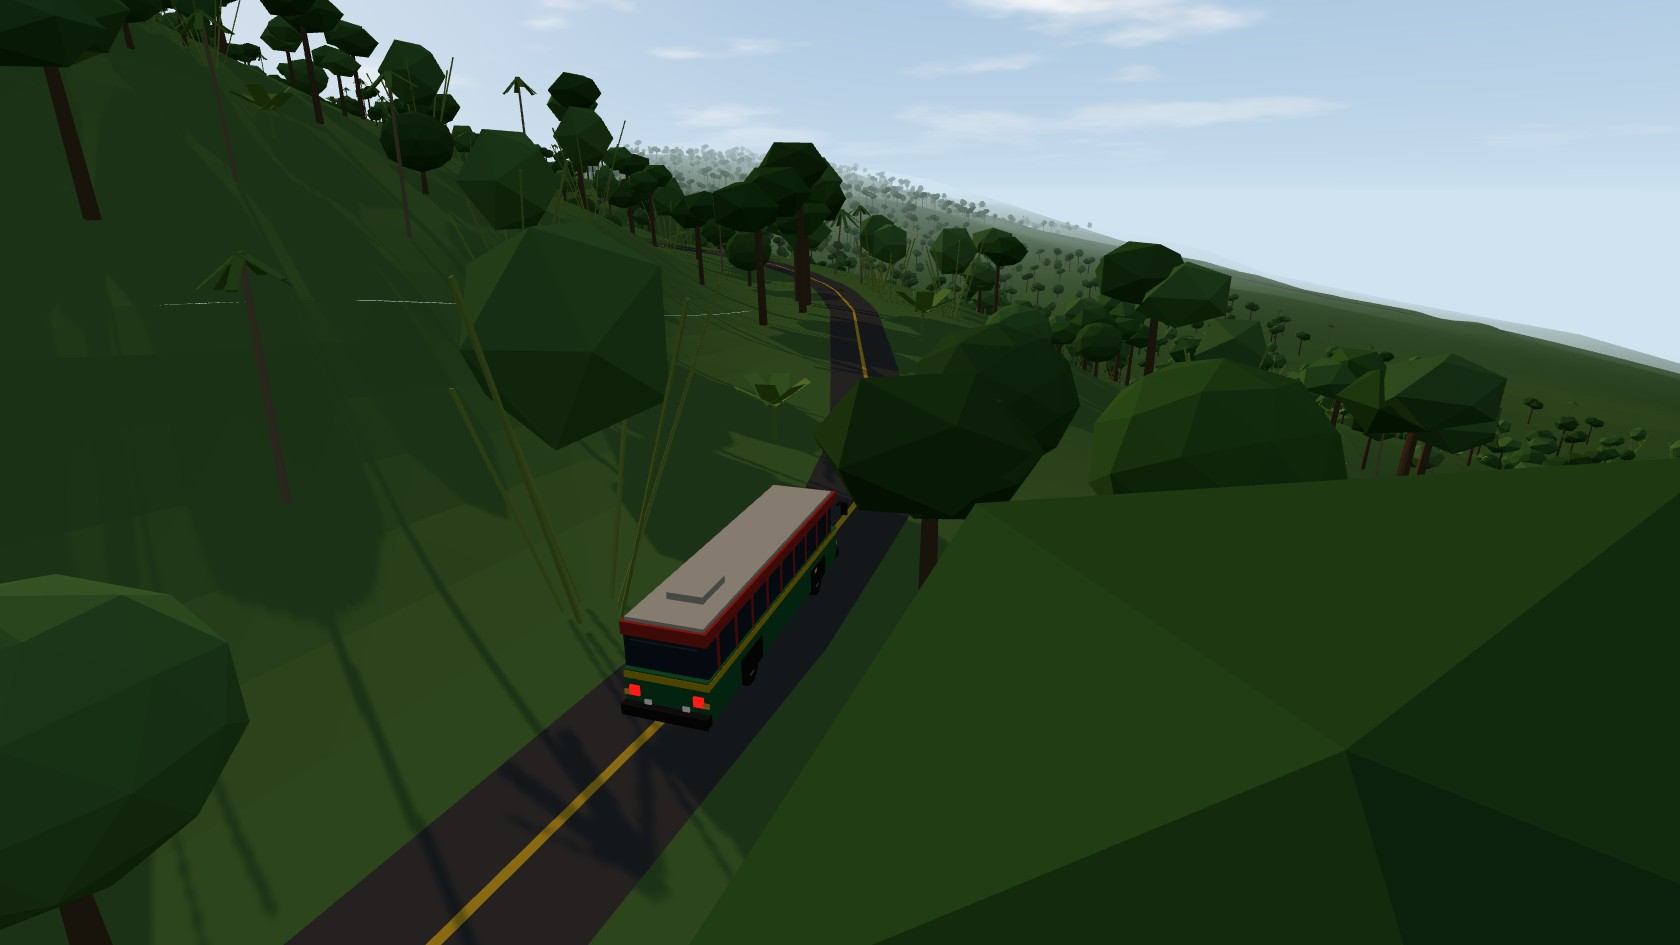
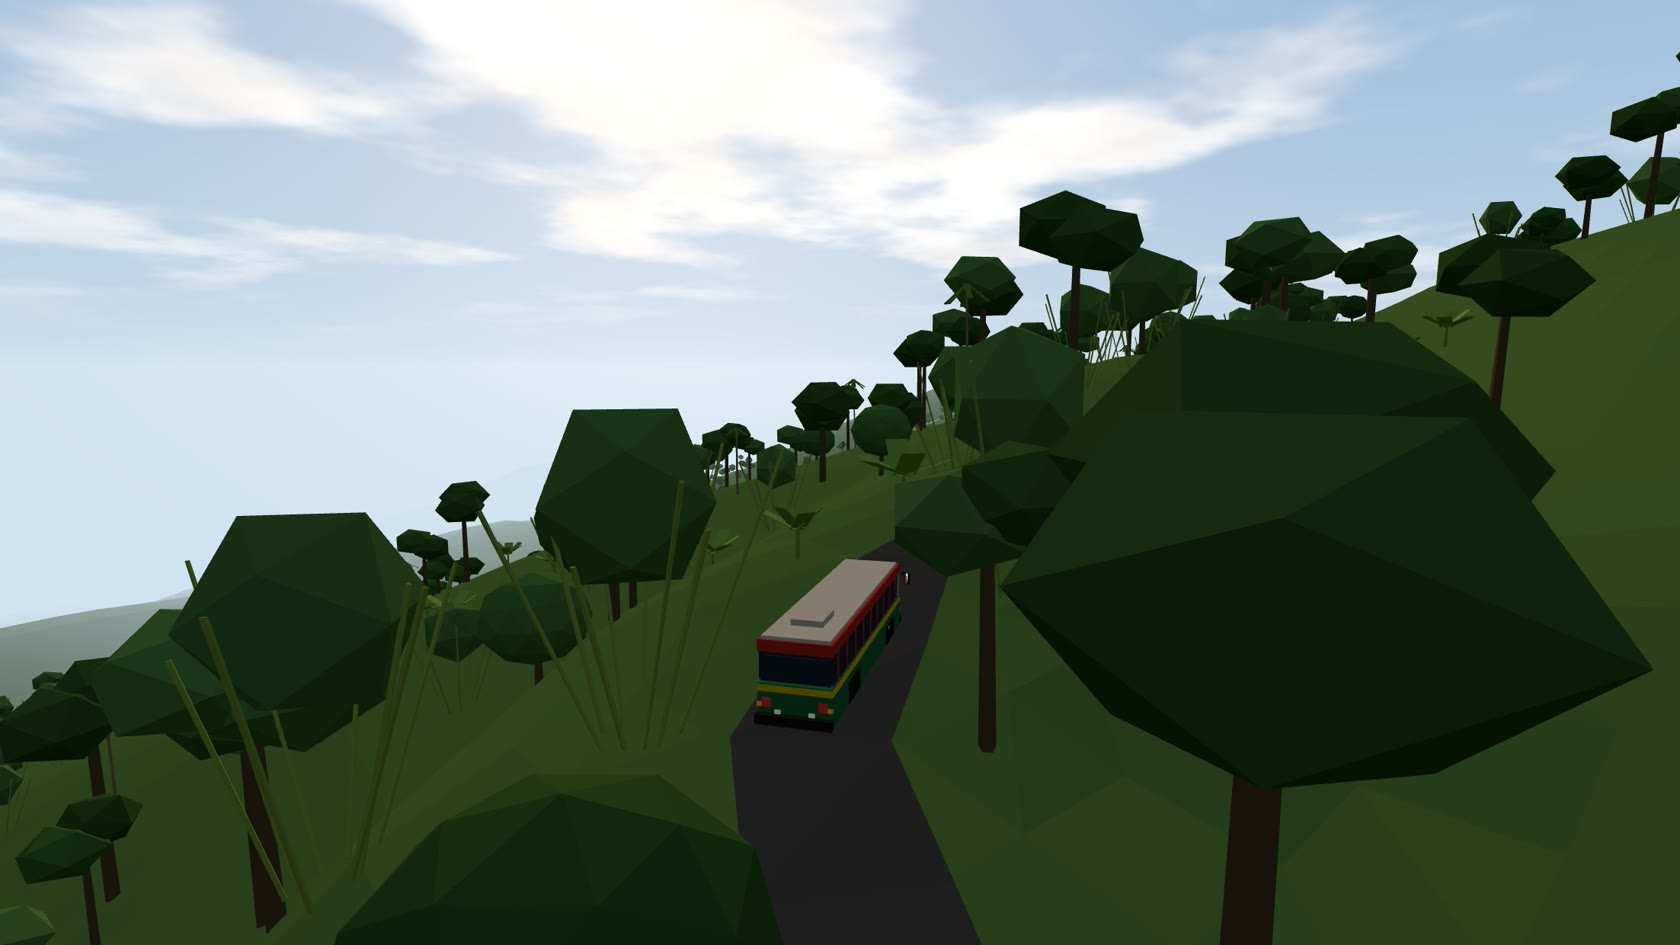
fix: keep the Bandarban bus on the Thanchi Road and move Chimbuk to its summit (v1.2.2)
The route graph now costs unnamed unclassified ways like residential ones,
so the Route no longer cuts through village lanes at km 2.6-3.7 (22.82 km).
The Chimbuk landmark stands on the summit complex seen in imagery; the Stop
stays on the road. The hill road has no lane markings (new markings option).

diff --git a/scripts/bake/build.ts b/scripts/bake/build.ts
@@ -196,7 +196,7 @@ function dashes(pts: [number, number][], dash: number, space: number): [number, 
 
 export function buildRoads(
   geo: ChunkGeometry, idx: Indexed, h: HeightSampler, onRoad: (x: number, z: number) => boolean, junctions: PointGrid,
-  footpaths = true, flyovers: Map<number, (s: number) => number> = new Map(), bridgesAtGrade = false,
+  footpaths = true, flyovers: Map<number, (s: number) => number> = new Map(), bridgesAtGrade = false, markings = true,
 ): { pillars: number; skipped: number; crossings: number; footbridges: number } {
   let pillars = 0, skipped = 0, crossings = 0, footbridges = 0;
   const lift = (rank: number) => 0.12 + rank * 0.01; // major roads draw over minor ones at junctions
@@ -311,12 +311,12 @@ export function buildRoads(
         for (const seg of dashed ? dashes(line, 3, 6) : [line]) geo.ribbon(at(seg, y + 0.02), wdt, c, 'marking', [0]);
       };
       // lane dividers
-      for (let i = 1; i < lanes; i++) {
+      for (let i = 1; markings && i < lanes; i++) {
         const off = -width / 2 + (i * width) / lanes;
         if (!oneway && i === lanes / 2) mark(off, C.yellow, false, 0.3); // centre line on two-way roads
         else mark(off, C.white, true);
       }
-      if (rank >= 4) { mark(-width / 2 + 0.3, C.white, false); mark(width / 2 - 0.3, C.white, false); }
+      if (markings && rank >= 4) { mark(-width / 2 + 0.3, C.white, false); mark(width / 2 - 0.3, C.white, false); }
       // Raised footpaths both sides; on dual carriageways the inner one reads as the median kerb.
       const fw = rank >= 4 ? 2.5 : 1.8;
       if (footpaths) for (const side of [-1, 1]) geo.ribbon(at(offsetLine(run, side * (width / 2 + fw / 2)), 0.3), fw, C.kerb, 'kerb', [0, 1], 0.18, C.kerbSide);

diff --git a/src/config/changelog.ts b/src/config/changelog.ts
@@ -11,6 +11,21 @@ export interface Release {
 
 export const CHANGELOG: Release[] = [
   {
+    version: '1.2.2',
+    date: '2026-10-31',
+    image: '1.2.2.jpg',
+    bn: [
+      'বান্দরবানের বাস এখন পুরো পথ থানচি সড়ক ধরেই চলে; শহরের কাছের গ্রামের শর্টকাটটা আর নেই।',
+      'চিম্বুকের চূড়ার কমপ্লেক্স এখন তার আসল জায়গায়, সড়ক থেকে একটু ভেতরে।',
+      'পাহাড়ি সড়কে আর হলুদ মাঝের দাগ নেই, আসল সড়কের মতো একটাই লেন।',
+    ],
+    en: [
+      'The Bandarban bus now keeps to the Thanchi Road all the way; the village shortcut near town is gone.',
+      'Chimbuk’s summit complex now stands where it really is, a short way off the road.',
+      'The hill road has no yellow centre line any more: one unmarked lane, like the real one.',
+    ],
+  },
+  {
     version: '1.2.1',
     date: '2026-10-28',
     image: '1.2.1.jpg',

diff --git a/src/shared/landmarks.ts b/src/shared/landmarks.ts
@@ -41,7 +41,7 @@ export const LANDMARKS: LandmarkDef[] = [
   { id: 'sadarghat-launches', name: 'Sadarghat', lat: 23.70589, lon: 90.40929, tier: 'simple', footprintM: 0, headingDeg: 0, places: D('zone') },
   { id: 'airport-terminal', name: 'Airport Terminal', lat: 23.8501, lon: 90.4071, tier: 'simple', footprintM: 200, headingDeg: 140, places: D('zone') },
   // Bandarban Route (also seen from the air)
-  { id: 'chimbuk', name: 'Chimbuk', lat: 22.0573, lon: 92.2732, tier: 'hero', footprintM: 40, headingDeg: 30, places: B('both') },
+  { id: 'chimbuk', name: 'Chimbuk', lat: 22.0571, lon: 92.2724, tier: 'hero', footprintM: 40, headingDeg: 30, places: B('both') },
   { id: 'shoilo-propat', name: 'Shoilo Propat', lat: 22.15067, lon: 92.21688, tier: 'hero', footprintM: 0, headingDeg: 109, places: B('both') },
   { id: 'milonchhari', name: 'Milonchhari', lat: 22.16861, lon: 92.22284, tier: 'simple', footprintM: 0, headingDeg: 40, places: B('both') },
   { id: 'bandarban-bus-stand', name: 'Bandarban Bus Stand', lat: 22.18368, lon: 92.2178, tier: 'simple', footprintM: 0, headingDeg: 30, places: B('both') },

diff --git a/scripts/bake/osm.ts b/scripts/bake/osm.ts
@@ -79,7 +79,10 @@ export function buildGraph(idx: Indexed): Map<number, Edge[]> {
     if (!t.highway || !DRIVABLE.has(t.highway) || baseType(t.highway) === 'motorway' || isElevated(w, idx)) continue;
     if (t.access === 'private' || t.access === 'no') continue;
     const dir = isOneway(t);
-    const penalty = t.highway === 'service' ? 3 : t.highway === 'residential' ? 1.6 : 1;
+    // Unnamed unclassified ways are usually village lanes; without a cost they shortcut real roads
+    // (Bandarban's Route left the Thanchi Road for two of them between km 2.6 and 3.7).
+    const lane = t.highway === 'unclassified' && !t.name && !t.ref;
+    const penalty = t.highway === 'service' ? 3 : t.highway === 'residential' || lane ? 1.6 : 1;
     for (let i = 1; i < w.nodes.length; i++) {
       const a = idx.nodes.get(w.nodes[i - 1]), b = idx.nodes.get(w.nodes[i]);
       if (!a || !b) continue;

diff --git a/scripts/bake/regions.ts b/scripts/bake/regions.ts
@@ -26,6 +26,8 @@ export interface RegionDef {
   gradeRoads: boolean;
   /** Raised footpaths along main roads (city Regions; hill roads have none). */
   footpaths: boolean;
+  /** Painted lane markings (default on; Bandarban's hill road is one unmarked lane). */
+  markings?: boolean;
   /** A metro Region (SPEC §20): the Route is the line's track and the Stops are its stations. */
   metro?: boolean;
   /** Read OSM from the local Geofabrik extract instead of Overpass (big city areas). */
@@ -79,6 +81,7 @@ export const BANDARBAN: RegionDef = {
   forest: true,
   gradeRoads: true,
   footpaths: false,
+  markings: false,
 };
 
 /** MRT Line 6, Uttara North → Motijheel (SPEC §20; stations are OSM's, north to south). */

diff --git a/scripts/bake/index.ts b/scripts/bake/index.ts
@@ -131,7 +131,7 @@ async function main() {
   const flyovers = region.gradeRoads ? new Map<number, (s: number) => number>() : flyoverProfiles(roads.ways.filter(wy => wy.tags?.highway).map(wy => ({
     id: wy.id, nodes: wy.nodes, tags: wy.tags!, pts: wy.nodes.map(n => roads.nodes.get(n)).filter(Boolean).map(nd => [nd!.x, nd!.z] as [number, number]),
   })));
-  const rd = buildRoads(geo, roads, h, onRoad, junctions, region.footpaths, flyovers, region.gradeRoads);
+  const rd = buildRoads(geo, roads, h, onRoad, junctions, region.footpaths, flyovers, region.gradeRoads, region.markings ?? true);
   lap('roads');
   if (metro) {
     const v = buildViaduct(geo, metro, onRoad);

diff --git a/SPEC.md b/SPEC.md
@@ -107,16 +107,16 @@ The path runs along Old Airport Road and Bijoy Sarani, then Bir Uttam Ziaur Rahm
 
 The routed km figures include short detours; staying on the arterials comes to ~13.5–14.8 km.
 
-### Bandarban Route: Bandarban Bus Stand → Chimbuk (~22.6 km as baked, outbound only)
+### Bandarban Route: Bandarban Bus Stand → Chimbuk (~22.8 km as baked, outbound only)
 
-The road is the Bandarban–Thanchi Road (`secondary`, Z1811). Stops are hand-placed because they aren't bus stops in OSM.
+The road is the Bandarban–Thanchi Road (`secondary`, Z1811) the whole way: the route graph costs unnamed `unclassified` ways like `residential`, so the Route no longer cuts through village lanes at km 2.6–3.7 (v1.2.2). Stops are hand-placed because they aren't bus stops in OSM.
 
 | # | Stop | Lat, Lon | km | Leg |
 |---|---|---|---|---|
 | 1 | Bandarban Bus Stand (Thanchi Road stands) | ~22.1837, 92.2178 | 0 | Leg 1 start |
-| 2 | Milonchhari | ~22.1686, 92.2228 | 3.2 | |
-| 3 | Shoilo Propat | ~22.1507, 92.2169 | 6.6 | Leg 1 end / Leg 2 start |
-| 4 | Chimbuk (Tourist Centre, on the main road at its ridge top; no side road) | 22.05755, 92.27342 | 22.6 | Leg 2 end (~17 km) |
+| 2 | Milonchhari | ~22.1686, 92.2228 | 2.2 | |
+| 3 | Shoilo Propat | ~22.1507, 92.2169 | 5.7 | Leg 1 end / Leg 2 start |
+| 4 | Chimbuk (Tourist Centre, on the main road at its ridge top; no side road) | 22.05755, 92.27342 | 22.8 | Leg 2 end (~17 km) |
 
 ### Flight Zones
 
@@ -416,7 +416,7 @@ Cameras: the **driver's cab is the default** (right-hand drive, as Bangladesh dr
 These were known gaps the build had to check. None of them is an open decision. Results from M12 (2026-10-28) follow each item.
 
 1. **Minimum phone:** repeat the 30 fps checks on a Helio G99 / Snapdragon 680-class phone. The user's test phone wasn't recorded ([024](docs/wayfinder/tickets/024-prototype-fog-and-rain.md), [017](docs/wayfinder/tickets/017-judge-touch-controls.md)). **Open: needs the user's phone.** Add `?fps=1` to the URL for a frame-rate readout (green at 30 fps or more). On a desktop GPU, High holds ~60 fps in Dhaka with shadows.
-2. **Chimbuk height:** **confirmed.** GLO-30 gives 556 m at the Wikidata "Tourist Centre" point (SRTM said ~558 m). That point lies ~210 m off the road and below it; the Thanchi Road tops out at 579 m beside a 592 m knoll. The Stop now stands on the road at that ridge top (22.05755, 92.27342) and the landmark on the knoll beside it (22.0573, 92.2732).
+2. **Chimbuk height:** **confirmed.** GLO-30 gives 556 m at the Wikidata "Tourist Centre" point (SRTM said ~558 m). That point lies ~210 m off the road and below it; the Thanchi Road tops out at 579 m beside a 592 m knoll. The Stop stands on the road at that ridge top (22.05755, 92.27342). The landmark stands on the summit complex seen in satellite imagery, a paved plaza ~100 m off the road (22.0571, 92.2724; moved in v1.2.2, [polish 004](docs/wayfinder/polish/tickets/004-ground-truth-bandarban-road.md)).
 3. **Approximate coordinates:** **snapped.** Bandarban Stops snap to the baked road within 19 m (Bus Stand), 3 m (Milonchhari, Shoilo Propat) and 1 m (Chimbuk). The bake now takes a node within 60 m for hand-placed Stops; a wide radius had let the Route end short of the last one.
 4. **Rickshaw ban:** **researched.** DMP orders ban rickshaws and other slow vehicles from Dhaka's main roads (Mirpur Road since 2019; VIP Road and Pragati Sarani named in July 2024), but reports describe wide breaches since August 2024. The game keeps rickshaws off the corridor's carriageways except crossing at junctions and in the kerb lane near Farmgate.
 5. **Terminal 3:** **checked.** The building is complete but not open to passengers; the latest target (CAAB, 2026) is a soft opening on 16 December 2026, pending the Japanese operator deal. It's modelled as a finished building with no activity.

diff --git a/README.md b/README.md
@@ -130,7 +130,7 @@ The routes you've driven light up on the map, zoomed-in places name their landma
 |:-:|:-:|
 | ![The What's new card shown after an update](docs/images/whats-new.jpg) | ![The classic menu cards: Bus, Plane and Metro](docs/images/menu.jpg) |
 
-**Current version: 1.2.1**: gamepad control for the metro, the passport card and landmark names on the map. 1.2.0 brought the map menu; 1.1.0 added Metro Mode on MRT Line 6.
+**Current version: 1.2.2**: the Bandarban bus keeps to the Thanchi Road all the way, Chimbuk's summit complex stands where it really is, and the hill road loses its yellow centre line. 1.2.1 added gamepad control for the metro, the passport card and landmark names on the map; 1.2.0 brought the map menu; 1.1.0 added Metro Mode on MRT Line 6.
 
 ## Build it yourself
 

diff --git a/docs/polish-spec.md b/docs/polish-spec.md
@@ -69,7 +69,9 @@ This spec makes the places already in the game faithful to the real ones: the Dh
 
 ## 5. Bandarban road
 
-### 5.1 Correctness (v1.2.2)
+### 5.1 Correctness (v1.2.2, built 2026-10-31)
+
+As built: the Route is 22.82 km (Stops at 0, 2.2, 5.7 and 22.8 km). The summit complex is 103 m off the road, so the Stop stayed on the road and only the landmark moved; from the cab it is hidden by forest, which the user accepted for accuracy.
 
 [Ground-truth the Bandarban road](wayfinder/polish/tickets/004-ground-truth-bandarban-road.md), [research](research/bandarban-road.md)
 
